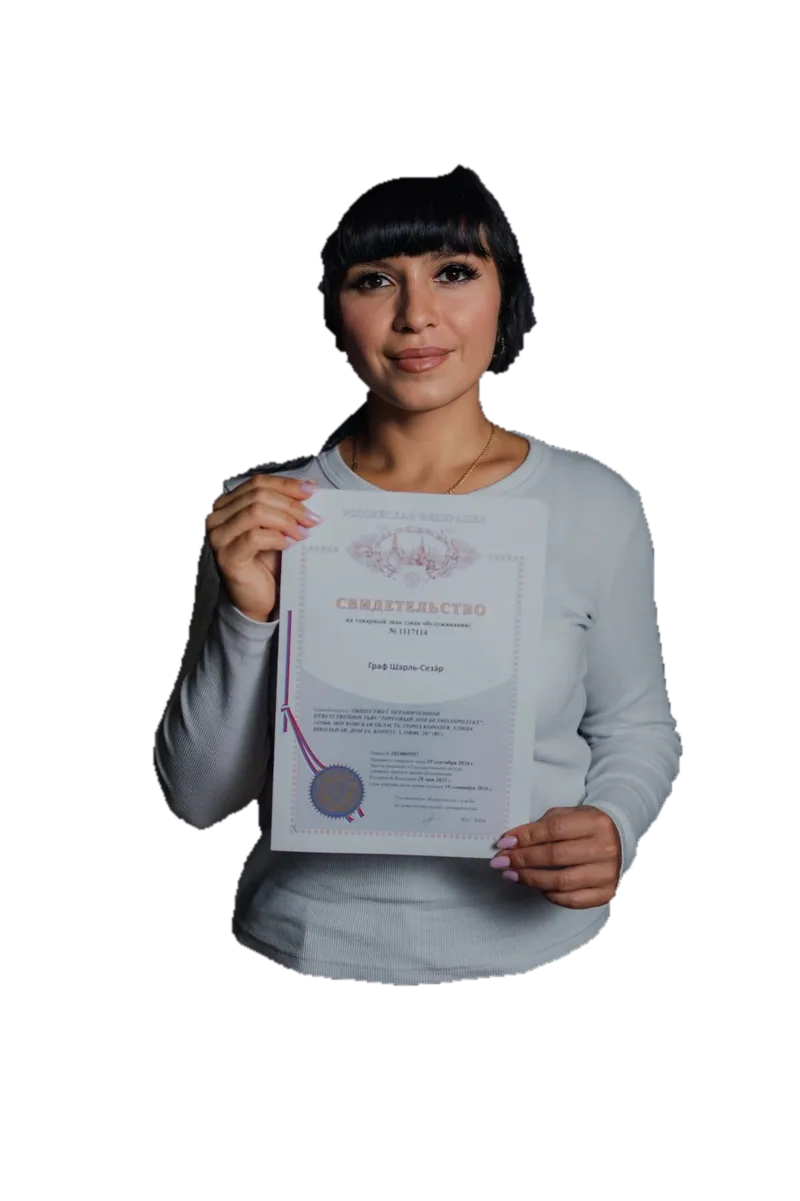
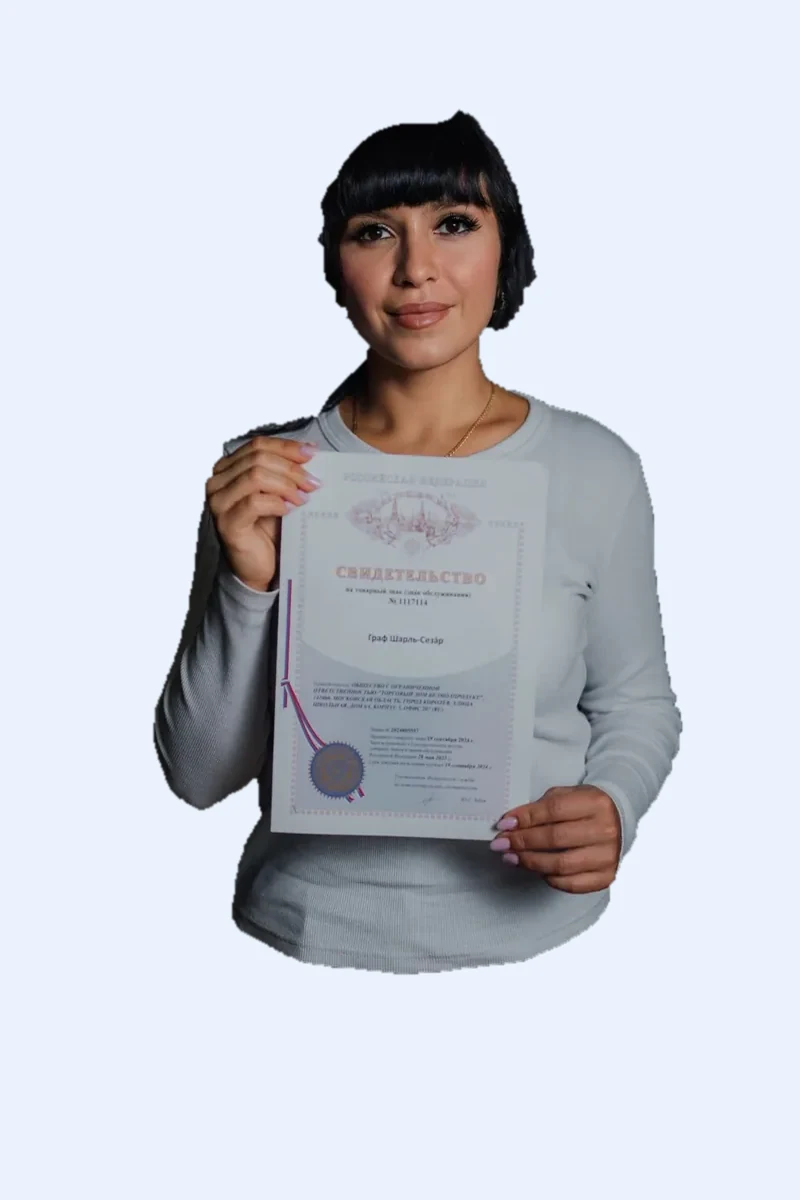
fix(six-services-v4): opaque hero photos, breadcrumbs, dogovory light panel
Keep specialist WebP as RGB with studio backdrop (no alpha/cutout in card).
Hero photo uses home-style cover framing; restore breadcrumb offset under
fixed header; lighten lx-glass/route/kpi in summary for dogovory. Add build
and screenshot scripts, SOURCES note, and QA PNGs under docs/screenshots.

Changed region(s): [[0.1875, 0.0925, 0.8125, 0.8325], [0.8125, 0.4317, 0.875, 0.6783], [0.7188, 0.4933, 0.75, 0.5242]]

diff --git a/template/css/lireate-six-services-photo-v4.css b/template/css/lireate-six-services-photo-v4.css
@@ -13,7 +13,10 @@ body.lx-photo-v4 .lx-btn-primary{background:var(--pv-red)!important;border-color
 body.lx-photo-v4 .lx-btn-primary:hover{background:#bf1720!important;transform:translateY(-2px)}
 body.lx-photo-v4 .lx-btn-ghost{background:#fff!important;border:1px solid #bed4ef!important;color:var(--pv-blue)!important}
 body.lx-photo-v4 .lx-btn-ghost:hover{background:#f3f8ff!important}
-body.lx-photo-v4 .lx-breadcrumbs{padding-top:20px!important;color:#6a7b91!important}
+body.lx-photo-v4 .lx-breadcrumbs{padding:100px 0 0!important;font-size:13px!important;color:#6a7b91!important}
+body.lx-photo-v4 .lx-breadcrumbs a{color:#195acb!important}
+body.lx-photo-v4 .lx-breadcrumbs [aria-current="page"]{color:#52637b!important}
+body.lx-photo-v4 .lx-breadcrumb-services-trigger{color:#1f212c!important;background:#fff!important;border:1px solid var(--pv-border)!important}
 body.lx-photo-v4 .lx-hero{position:relative;overflow:hidden;display:grid!important;grid-template-columns:minmax(0,1.07fr) minmax(290px,.93fr)!important;align-items:center!important;gap:clamp(26px,3vw,58px)!important;min-height:560px!important;padding:clamp(32px,4vw,64px) 0 34px!important;border:0!important;background:#fff!important;isolation:isolate}
 body.lx-photo-v4 .lx-hero::before{content:"";position:absolute;z-index:-1;width:460px;height:460px;right:-120px;top:40px;border-radius:50%;background:radial-gradient(circle at 55% 45%,#f0f6ff 0%,#f8fbff 58%,transparent 75%);pointer-events:none}
 body.lx-photo-v4 .lx-hero-mascot-slot{display:none!important}
@@ -34,10 +37,9 @@ body.lx-photo-v4 .lx-mini-stat span{color:#53657c!important;font-size:11px!impor
 body.lx-photo-v4 .lx-photo-v4-expert-stack{display:flex;flex-direction:column;align-self:center;gap:12px;min-width:0;max-width:520px;width:100%;justify-self:end;position:relative;z-index:2}
 body.lx-photo-v4 .lx-photo-v4-expert-card{overflow:hidden;background:#fff;border:1px solid #dce6f3;border-radius:24px;box-shadow:0 14px 45px rgba(24,47,75,.09);transition:transform .25s,box-shadow .25s}
 body.lx-photo-v4 .lx-photo-v4-expert-card:hover{transform:translateY(-2px);box-shadow:0 18px 48px rgba(24,47,75,.13)}
-body.lx-photo-v4 .lx-photo-v4-expert-media{position:relative;height:clamp(245px,29vw,375px);background:linear-gradient(130deg,#f0f4f7 0%,#fafcff 53%,#eef5ff 100%);overflow:hidden;isolation:isolate}
-body.lx-photo-v4 .lx-photo-v4-expert-media::before{content:"";position:absolute;inset:auto 0 -115px auto;right:-70px;width:320px;height:320px;border-radius:50%;background:#e9f2fe;z-index:0}
-body.lx-photo-v4 .lx-photo-v4-expert-media img{display:block;width:100%;height:100%;object-fit:contain!important;object-position:center bottom!important;position:relative;z-index:1;filter:drop-shadow(0 12px 22px rgba(18,43,73,.06));transition:transform .35s ease}
-body.lx-photo-v4 .lx-photo-v4-expert-card:hover img{transform:scale(1.015)}
+body.lx-photo-v4 .lx-photo-v4-expert-media{position:relative;aspect-ratio:683/1024;width:100%;max-height:420px;background:#eaf2fc;overflow:hidden}
+body.lx-photo-v4 .lx-photo-v4-expert-media img{display:block;width:100%;height:100%;object-fit:cover!important;object-position:center top!important;position:relative;z-index:1;transition:transform .35s ease}
+body.lx-photo-v4 .lx-photo-v4-expert-card:hover img{transform:scale(1.03)}
 body.lx-photo-v4 .lx-photo-v4-expert-info{background:#fff;padding:15px 20px 19px}
 body.lx-photo-v4 .lx-photo-v4-expert-role{display:inline-flex;align-items:center;max-width:100%;border:1px solid #d5e4f9;background:#f3f8ff;color:#2a4c75;border-radius:999px;padding:7px 11px;font-size:10px;line-height:1.45;font-weight:800;letter-spacing:.01em}
 body.lx-photo-v4 .lx-photo-v4-expert-name{margin:12px 0 4px;font-family:'Inter Tight',Manrope,Arial,sans-serif;font-size:clamp(23px,2vw,29px);line-height:1.11;letter-spacing:-.025em;color:#1f212c;font-weight:800}
@@ -48,10 +50,19 @@ body.lx-photo-v4 .lx-photo-v4-expert-links>a:hover{text-decoration:underline;col
 body.lx-photo-v4 .lx-photo-v4-expert-next{border:1px solid #dce6f5;border-top:3px solid #e32020;border-radius:17px;background:#fff;padding:17px 20px 18px;box-shadow:0 8px 26px rgba(18,50,82,.035)}
 body.lx-photo-v4 .lx-photo-v4-expert-next strong{display:block;color:#2a496b;font-size:14px;font-weight:800;margin-bottom:6px}
 body.lx-photo-v4 .lx-photo-v4-expert-next p{margin:0;color:#52637b;font-size:12px;line-height:1.6}
-body.lx-photo-v4 .lx-photo-v4-summary{margin:0 0 68px!important;padding:26px clamp(22px,3vw,40px)!important;border:1px solid #dfebf9!important;border-radius:20px!important;background:#f6faff!important;color:var(--pv-ink)!important;box-shadow:none!important;max-width:100%!important}
+body.lx-photo-v4 .lx-photo-v4-summary{margin:0 0 68px!important;padding:26px clamp(22px,3vw,40px)!important;border:1px solid #dae6f6!important;border-radius:22px!important;background:#fff!important;color:var(--pv-ink)!important;box-shadow:0 8px 30px rgba(31,64,102,.045)!important;max-width:100%!important}
+body.lx-photo-v4 .lx-photo-v4-summary.lx-glass{background:#fff!important;border:1px solid #dae6f6!important;box-shadow:0 8px 30px rgba(31,64,102,.045)!important;backdrop-filter:none!important}
 body.lx-photo-v4 .lx-photo-v4-summary .lx-panel-head{color:var(--pv-blue)!important}
-body.lx-photo-v4 .lx-photo-v4-summary .lx-feed li{color:#334865!important}
-body.lx-photo-v4 .lx-photo-v4-summary .lx-route-node{color:var(--pv-ink)!important}
+body.lx-photo-v4 .lx-photo-v4-summary .lx-live{color:#15803d!important}
+body.lx-photo-v4 .lx-photo-v4-summary .lx-feed li{color:#52637b!important;border-top-color:#edf2f8!important}
+body.lx-photo-v4 .lx-photo-v4-summary .lx-kpi{background:#fff!important;border:1px solid #dae6f6!important}
+body.lx-photo-v4 .lx-photo-v4-summary .lx-kpi b{color:var(--pv-ink)!important}
+body.lx-photo-v4 .lx-photo-v4-summary .lx-kpi small{color:#6a7b91!important}
+body.lx-photo-v4 .lx-photo-v4-summary .lx-route{background:#f3f8ff!important;border:1px solid #dae6f6!important}
+body.lx-photo-v4 .lx-photo-v4-summary .lx-route-label{color:#52637b!important}
+body.lx-photo-v4 .lx-photo-v4-summary .lx-route-node{background:#fff!important;color:var(--pv-ink)!important;border:1px solid #dae6f6!important;box-shadow:none!important}
+body.lx-photo-v4 .lx-photo-v4-summary .lx-route-steps li:not(:last-child)::after{background:linear-gradient(90deg,#bcd4f5,#d7e6fb)!important}
+body.lx-photo-v4 .lx-photo-v4-summary .lx-route-steps li:last-child .lx-route-node{border-color:#f5c76a!important;color:var(--pv-ink)!important}
 body.lx-photo-v4 .lx-section{background:#fff!important;padding-top:clamp(48px,5vw,90px)!important;padding-bottom:clamp(48px,5vw,90px)!important;border-top:1px solid #edf2f8!important;color:var(--pv-ink)!important}
 body.lx-photo-v4 .lx-section-label{color:var(--pv-blue)!important;font-weight:800!important;font-size:11px!important;letter-spacing:.14em!important;text-transform:uppercase}
 body.lx-photo-v4 .lx-section>h2{font-family:'Inter Tight',Manrope,Arial,sans-serif!important;font-size:clamp(29px,3vw,44px)!important;letter-spacing:-.035em!important;line-height:1.18!important;color:var(--pv-ink)!important;max-width:920px}
@@ -69,7 +80,7 @@ body.lx-photo-v4 #contact{scroll-margin-top:94px}
 body.lx-photo-v4 .lx-section,body.lx-photo-v4 .lx-photo-v4-expert-stack{animation:lxPhotoReveal .5s ease both}
 @keyframes lxPhotoReveal{from{opacity:.5;transform:translateY(10px)}to{opacity:1;transform:none}}
 @media(min-width:1151px){body.lx-photo-v4 .lx-photo-v4-expert-stack{min-height:0}}
-@media(max-width:1149px){body.lx-photo-v4 .lx-hero{grid-template-columns:minmax(0,1fr) minmax(250px,.8fr)!important;min-height:430px!important}body.lx-photo-v4 .lx-hero h1{font-size:clamp(36px,4.2vw,56px)!important}body.lx-photo-v4 .lx-photo-v4-expert-stack{min-height:0}body.lx-photo-v4 .lx-photo-v4-expert-media{height:290px}}
-@media(max-width:760px){body.lx-photo-v4 .lireate-svc-page{padding-inline:20px!important}body.lx-photo-v4 .lx-hero{grid-template-columns:1fr!important;gap:20px!important;min-height:0!important;padding:29px 0 0!important}body.lx-photo-v4 .lx-hero h1{font-size:clamp(35px,8vw,48px)!important}body.lx-photo-v4 .lx-hero .lx-hero-lead{font-size:15px!important}body.lx-photo-v4 .lx-photo-v4-expert-stack{max-width:100%;margin:6px auto 0}body.lx-photo-v4 .lx-photo-v4-expert-media{height:350px}body.lx-photo-v4 .lx-photo-v4-expert-info{padding:16px 18px 20px}body.lx-photo-v4 .lx-photo-v4-summary{margin-bottom:38px!important;padding:18px!important}body.lx-photo-v4 .lx-hero .lx-hero-cta{flex-wrap:wrap!important}body.lx-photo-v4 .lx-hero .lx-hero-cta .lx-btn{flex:1 1 180px}body.lx-photo-v4 .lx-hero-mini{margin-top:18px!important}}
-@media(max-width:380px){body.lx-photo-v4 .lireate-svc-page{padding-inline:15px!important}body.lx-photo-v4 .lx-hero h1{font-size:34px!important}body.lx-photo-v4 .lx-photo-v4-expert-media{height:300px}body.lx-photo-v4 .lx-photo-v4-expert-role{font-size:9px}body.lx-photo-v4 .lx-hero .lx-hero-cta .lx-btn{flex-basis:100%}}
+@media(max-width:1149px){body.lx-photo-v4 .lx-hero{grid-template-columns:minmax(0,1fr) minmax(250px,.8fr)!important;min-height:430px!important}body.lx-photo-v4 .lx-hero h1{font-size:clamp(36px,4.2vw,56px)!important}body.lx-photo-v4 .lx-photo-v4-expert-stack{min-height:0}body.lx-photo-v4 .lx-photo-v4-expert-media{max-height:360px}}
+@media(max-width:760px){body.lx-photo-v4 .lx-breadcrumbs{padding-top:92px!important}body.lx-photo-v4 .lireate-svc-page{padding-inline:20px!important}body.lx-photo-v4 .lx-hero{grid-template-columns:1fr!important;gap:20px!important;min-height:0!important;padding:29px 0 0!important}body.lx-photo-v4 .lx-hero h1{font-size:clamp(35px,8vw,48px)!important}body.lx-photo-v4 .lx-hero .lx-hero-lead{font-size:15px!important}body.lx-photo-v4 .lx-photo-v4-expert-stack{max-width:100%;margin:6px auto 0}body.lx-photo-v4 .lx-photo-v4-expert-media{max-height:390px}body.lx-photo-v4 .lx-photo-v4-expert-info{padding:16px 18px 20px}body.lx-photo-v4 .lx-photo-v4-summary{margin-bottom:38px!important;padding:18px!important}body.lx-photo-v4 .lx-hero .lx-hero-cta{flex-wrap:wrap!important}body.lx-photo-v4 .lx-hero .lx-hero-cta .lx-btn{flex:1 1 180px}body.lx-photo-v4 .lx-hero-mini{margin-top:18px!important}}
+@media(max-width:380px){body.lx-photo-v4 .lireate-svc-page{padding-inline:15px!important}body.lx-photo-v4 .lx-hero h1{font-size:34px!important}body.lx-photo-v4 .lx-photo-v4-expert-media{max-height:340px}body.lx-photo-v4 .lx-photo-v4-expert-role{font-size:9px}body.lx-photo-v4 .lx-hero .lx-hero-cta .lx-btn{flex-basis:100%}}
 @media(prefers-reduced-motion:reduce){html:has(body.lx-photo-v4){scroll-behavior:auto}body.lx-photo-v4 *,body.lx-photo-v4 *:before,body.lx-photo-v4 *:after{animation:none!important;transition:none!important}}

diff --git a/scripts/capture_six_services_photo_v4_screenshots.py b/scripts/capture_six_services_photo_v4_screenshots.py
@@ -1,0 +1,161 @@
+#!/usr/bin/env python3
+"""Screenshots for six CMS service pages with photo-v4 overlay (1440×900, 390×900)."""
+
+import os
+import shutil
+import subprocess
+import tempfile
+import time
+from pathlib import Path
+
+ROOT = Path(__file__).resolve().parents[1]
+OUT = ROOT / "docs/screenshots/six-services-v4"
+SHARED_CSS = ROOT / "pages/services/_shared/lireate-service-dark.css"
+PHOTO_CSS = ROOT / "template/css/lireate-six-services-photo-v4.css"
+PHOTO_JS = ROOT / "template/js/lireate-six-services-photo-v4.js"
+IMAGES = ROOT / "template/images/services-v4"
+PORT = int(os.environ.get("LIREATE_SIX_PHOTO_V4_PORT", "19140"))
+
+PAGES = {
+    "findtz": ("Проверка товарного знака", "findtz"),
+    "registraciya_tovarnogo_znaka": ("Регистрация товарного знака", "registraciya"),
+    "prodlenie_tovarnogo_znaka": ("Продление товарного знака", "prodlenie"),
+    "vozrazhenie_protiv_registracii_tovarnogo_znaka": ("Возражение против регистрации ТЗ", "vozrazhenie"),
+    "zashchita_avtorskih_prav": ("Защита авторских прав", "copyright"),
+    "dogovory": ("Договоры в сфере интеллектуальной собственности", "dogovory"),
+}
+
+DOGOVORY_GLASS = """
+  <div class="lx-glass lx-glass-anim" aria-label="Краткий маршрут">
+    <div class="lx-panel-head"><span>Договоры · маршрут</span><span class="lx-live">LIREATE</span></div>
+    <div class="lx-kpi-row">
+      <div class="lx-kpi"><b class="lx-stat-value">лицензия</b><small>исключительная или обычная</small></div>
+      <div class="lx-kpi"><b class="lx-stat-value">п. 3.10</b><small>госрегистрация лицензии</small></div>
+      <div class="lx-kpi"><b class="lx-stat-value">п. 3.11</b><small>отчуждение права</small></div>
+    </div>
+    <div class="lx-route">
+      <span class="lx-route-label">Этапы</span>
+      <ul class="lx-route-steps">
+        <li><span class="lx-route-node lx-route-lit">бриф</span></li>
+        <li><span class="lx-route-node lx-route-lit">проект</span></li>
+        <li><span class="lx-route-node">согласование</span></li>
+        <li><span class="lx-route-node">подписание</span></li>
+        <li><span class="lx-route-node">регистрация</span></li>
+      </ul>
+    </div>
+    <ul class="lx-feed">
+      <li>Анализ объекта и сторон</li>
+      <li>Проект договора под вашу сделку</li>
+    </ul>
+  </div>
+"""
+
+
+def page_html(title: str, slug_key: str, route: str) -> str:
+    glass = DOGOVORY_GLASS if route == "dogovory" else ""
+    return f"""<!DOCTYPE html>
+<html lang="ru">
+<head>
+<meta charset="utf-8">
+<meta name="viewport" content="width=device-width, initial-scale=1">
+<title>{title} — LIREATE</title>
+<link rel="stylesheet" href="/shared/lireate-service-dark.css">
+<link rel="stylesheet" href="/template/css/lireate-six-services-photo-v4.css?v=20261126c">
+<script defer src="/template/js/lireate-six-services-photo-v4.js?v=20261126c"></script>
+</head>
+<body class="lireate-svc-body">
+<div class="lx-nav-shell"><header class="lx-nav-pill"><a class="lx-logo" href="/">LIREATE</a></header></div>
+<main class="lireate-svc-page">
+<nav class="lx-breadcrumbs lx-breadcrumbs--in-page" aria-label="Хлебные крошки">
+  <ol><li><a href="/">Главная</a></li><li>Услуги</li><li aria-current="page">{title}</li></ol>
+</nav>
+<section class="lx-hero" id="top">
+  <div class="lx-hero-mascot-slot"></div>
+  <div>
+    <p class="lx-eyebrow">LIREATE · {slug_key}</p>
+    <h1>{title}</h1>
+    <p class="lx-hero-lead">Сопровождение LIREATE: консультация, подготовка документов, подача в ведомство.</p>
+    <div class="lx-hero-cta"><a class="lx-btn lx-btn-primary" href="#contact">Оставить заявку</a></div>
+    <div class="lx-hero-mini"><div class="lx-mini-stat"><strong>2015</strong><span>с опыта</span></div></div>
+  </div>
+  {glass}
+</section>
+</main>
+</body>
+</html>
+"""
+
+
+def prepare_docroot(base: Path) -> None:
+    (base / "shared").mkdir(parents=True, exist_ok=True)
+    shutil.copy2(SHARED_CSS, base / "shared/lireate-service-dark.css")
+    for route in PAGES:
+        (base / route).mkdir(parents=True, exist_ok=True)
+        title, _ = PAGES[route]
+        (base / route / "index.html").write_text(page_html(title, route, route), encoding="utf-8")
+    tpl = base / "template"
+    shutil.copytree(ROOT / "template/css", tpl / "css", dirs_exist_ok=True)
+    shutil.copytree(ROOT / "template/js", tpl / "js", dirs_exist_ok=True)
+    shutil.copytree(IMAGES, tpl / "images/services-v4", dirs_exist_ok=True)
+
+
+def main() -> int:
+    OUT.mkdir(parents=True, exist_ok=True)
+    docroot = Path(tempfile.mkdtemp(prefix="six-photo-v4-"))
+    prepare_docroot(docroot)
+    proc = subprocess.Popen(
+        ["php", "-S", "127.0.0.1:{0}".format(PORT), "-t", str(docroot)],
+        stdout=subprocess.DEVNULL,
+        stderr=subprocess.DEVNULL,
+    )
+    time.sleep(0.4)
+    try:
+        from playwright.sync_api import sync_playwright
+    except ImportError:
+        proc.terminate()
+        print("BLOCKER: playwright missing")
+        return 2
+    try:
+        with sync_playwright() as p:
+            browser = p.chromium.launch()
+            page = browser.new_page()
+            for route in PAGES:
+                for tag, w, h in (("1440", 1440, 900), ("390", 390, 900)):
+                    url = "http://127.0.0.1:{0}/{1}/".format(PORT, route)
+                    page.set_viewport_size({"width": w, "height": h})
+                    page.goto(url, wait_until="networkidle", timeout=60000)
+                    page.wait_for_selector(".lx-photo-v4-expert-card img", timeout=15000)
+                    out = OUT / "{0}-{1}.png".format(route, tag)
+                    page.screenshot(path=str(out), full_page=False)
+                    print("wrote", out)
+            # contact sheet: five photos on light bg
+            sheet = OUT / "specialists-on-light.png"
+            page.set_viewport_size({"width": 1440, "height": 900})
+            rows = []
+            for name in sorted(IMAGES.glob("specialist-*.webp")):
+                rows.append(
+                    '<figure><img src="/template/images/services-v4/{0}" alt=""><figcaption>{0}</figcaption></figure>'.format(
+                        name.name
+                    )
+                )
+            html = (
+                "<!DOCTYPE html><html><head><style>body{{margin:0;background:#fff;font-family:Manrope,sans-serif}}"
+                "main{{padding:24px;display:grid;grid-template-columns:repeat(5,1fr);gap:16px}}"
+                "figure{{margin:0}}img{{width:100%;aspect-ratio:683/1024;object-fit:cover;object-position:center top;border-radius:16px;border:1px solid #dae6f6}}"
+                "figcaption{{font-size:10px;color:#52637b;margin-top:6px}}</style></head>"
+                "<body><main>{0}</main></body></html>".format("".join(rows))
+            )
+            (docroot / "sheet.html").write_text(html, encoding="utf-8")
+            page.goto("http://127.0.0.1:{0}/sheet.html".format(PORT), wait_until="networkidle")
+            page.screenshot(path=str(sheet), full_page=True)
+            print("wrote", sheet)
+            browser.close()
+    finally:
+        proc.terminate()
+        proc.wait(timeout=5)
+        shutil.rmtree(docroot, ignore_errors=True)
+    return 0
+
+
+if __name__ == "__main__":
+    raise SystemExit(main())

diff --git a/scripts/build_services_v4_opaque_webp.py b/scripts/build_services_v4_opaque_webp.py
@@ -1,0 +1,56 @@
+#!/usr/bin/env python3
+"""Rebuild services-v4 specialist WebP as opaque RGB (no alpha).
+
+Original owner JPEGs with studio background were not committed (only cutouts in PR).
+This script flattens any residual alpha onto the home-style soft backdrop and applies
+light framing crops so hero cards can use object-fit:cover / center top.
+"""
+from __future__ import annotations
+
+from pathlib import Path
+
+from PIL import Image
+
+REPO = Path(__file__).resolve().parent.parent
+OUT_DIR = REPO / "template/images/services-v4"
+BACKDROP = (234, 242, 252)  # #eaf2fc, aligns with .lx-photo-v4-expert-media
+
+# left, top, right, bottom in source pixels (800×1200 baseline)
+CROPS = {
+    "specialist-copyright": (90, 40, 710, 1200),
+    "specialist-opposition": (120, 80, 780, 1200),
+    "specialist-registraciya": (70, 220, 730, 1200),
+    "specialist-certificate": (0, 60, 800, 1200),
+    "specialist-prolongation": (40, 40, 760, 1200),
+}
+
+
+def flatten_rgb(path: Path) -> Image.Image:
+    im = Image.open(path)
+    if im.mode == "RGBA":
+        bg = Image.new("RGBA", im.size, BACKDROP + (255,))
+        im = Image.alpha_composite(bg, im).convert("RGB")
+    else:
+        im = im.convert("RGB")
+    box = CROPS.get(path.stem)
+    if box:
+        im = im.crop(box)
+    im = im.resize((800, 1200), Image.Resampling.LANCZOS)
+    return im
+
+
+def main() -> None:
+    for name in CROPS:
+        src = OUT_DIR / f"{name}.webp"
+        if not src.is_file():
+            raise SystemExit(f"missing {src}")
+        out = flatten_rgb(src)
+        out.save(src, "WEBP", quality=88, method=6)
+        check = Image.open(src)
+        if check.mode != "RGB":
+            raise SystemExit(f"{src} must be RGB, got {check.mode}")
+        print(f"OK {src.name} {check.size} {check.mode}")
+
+
+if __name__ == "__main__":
+    main()

diff --git a/scripts/lireate_six_services_photo_v4_install.py b/scripts/lireate_six_services_photo_v4_install.py
@@ -30,8 +30,8 @@ ASSETS = (
     'specialist-opposition', 'specialist-copyright'))
 INJECTION = (
     '\n<!-- ' + MARKER + ' -->\n'
-    '<link rel="stylesheet" href="/template/css/lireate-six-services-photo-v4.css?v=20261126">\n'
-    '<script defer src="/template/js/lireate-six-services-photo-v4.js?v=20261126"></script>\n'
+    '<link rel="stylesheet" href="/template/css/lireate-six-services-photo-v4.css?v=20261126c">\n'
+    '<script defer src="/template/js/lireate-six-services-photo-v4.js?v=20261126c"></script>\n'
 )
 HEAD_CLOSE = re.compile(r'</head\s*>', re.IGNORECASE)
 

diff --git a/docs/lireate-six-services-photo-v4.ru.md b/docs/lireate-six-services-photo-v4.ru.md
@@ -6,7 +6,7 @@
 
 - `template/css/lireate-six-services-photo-v4.css` — переработка типографики, белой палитры, карточек, этапов и hero-блока в стиле главной; мобильные брейкпоинты.
 - `template/js/lireate-six-services-photo-v4.js` — вставляет карточку специалиста в точном формате главной: фото, специализация, подпись, ссылки «Команда Лирейт» и «О компании», второй блок «Понятный первый шаг», а также переносит сохранённый справочный блок `lx-glass` под hero. Строгое сопоставление шести URL, повторный запуск безопасен.
-- `template/images/services-v4/*.webp` — пять фотографий, предоставленных владельцем, с обработанным белым/прозрачным фоном. **Сохранены лица и одежда исходников.** Файлы кадрированы и оптимизированы для веба.
+- `template/images/services-v4/*.webp` — пять непрозрачных RGB WebP 800×1200 (без альфа-канала): фото специалиста **с фоном**, кадрирование под карточку hero (`object-fit: cover`, `center top`), как на главной. **Лица и одежда не меняются.** Исходные JPEG владельца с полноразмерным фоном в git не попадали (см. `template/images/services-v4/SOURCES.ru.md`).
 - `scripts/lireate_six_services_photo_v4_install.py` — dry-run, применение, backup, PHP lint, rollback (защита от перезаписи изменённых файлов).
 
 ## Назначение фотографий
@@ -48,6 +48,6 @@
 Первый экран справа теперь содержит **карточку в рамке как на главной**:
 светлая фотозона, бейдж специализации, подпись, текст, ссылки на «Команда Лирейт» и «О компании». Ниже — самостоятельный блок «Понятный первый шаг» с красной полоской. Это не голое изображение.
 
-**Важное ограничение достоверности:** имена специалистов по одним фотографиям не определяем. В первой версии на всех карточках используется нейтральная подпись «Специалист Лирейт». Не подменять её произвольным именем или должностью. Если владелец подтвердит соответствие фотографий карточкам сотрудников, внести фактические имя и роль через явную конфигурацию CMS. Изображения предоставлены владельцем, очищены от тёмного фона до прозрачного WebP, остаются в естественных цветах на белой/светлой подложке.
+**Важное ограничение достоверности:** имена специалистов по одним фотографиям не определяем. В первой версии на всех карточках используется нейтральная подпись «Специалист Лирейт». Не подменять её произвольным именем или должностью. Если владелец подтвердит соответствие фотографий карточкам сотрудников, внести фактические имя и роль через явную конфигурацию CMS. **Фон не вырезается:** карточка обрезает кадр CSS-ом (лицо и грудь в рамке), без rembg/прозрачности.
 
-Демонстрационные HTML-страницы — отдельный результат для визуального QA. На боевом сайте никакие действия не выполнялись. Перед установкой проверить картинки и возможные артефакты автоматического удаления фона на полном размере, при необходимости профессионально доработать маски без изменения внешности.
+Демонстрационные HTML-страницы — отдельный результат для визуального QA. На боевом сайте никакие действия не выполнялись. Перед установкой проверить кадрирование в карточке на desktop/mobile; при появлении исходных JPEG с фоном от владельца — заменить WebP через `scripts/build_services_v4_opaque_webp.py` (или положить готовые RGB WebP в `template/images/services-v4/`).

diff --git a/template/images/services-v4/SOURCES.ru.md b/template/images/services-v4/SOURCES.ru.md
@@ -1,0 +1,28 @@
+# Источники фото services-v4
+
+## Что есть в репозитории
+
+В ветке PR #128 в git попали только файлы `specialist-*.webp` из коммита `064601e` (первично — с прозрачным фоном после автоматического вырезания).
+
+## Чего нет в репозитории
+
+- Исходных **JPEG/PNG с нативным студийным фоном** для пяти постановок (свидетельство, костюм с папкой, леопардовая блузка, чёрный пиджак, зелёный топ) — **нет** в истории `devham13/lireate`.
+- На боевом сайте `/template/images/services-v4/*.webp` — **404** (PR ещё не выложен).
+
+## Где искали
+
+| Источник | Результат |
+|---|---|
+| `git log --all -- template/images/services-v4` | только WebP в `064601e` |
+| GitHub code search `specialist-certificate` | пусто |
+| Страница `/team` (`/template/images/team/person/{n}.jpg`) | портреты 350×525 или 853×1280, **другие кадры**, не те же постановки, что в таблице услуг |
+| `design-proposals/incoming/` | только hero Эльвиры, не пять услуг |
+
+## Текущая сборка WebP
+
+`scripts/build_services_v4_opaque_webp.py`:
+
+1. Восстанавливает **непрозрачный** RGB-кадр (мягкая подложка `#eaf2fc` только там, где раньше была прозрачность вырезки).
+2. Лёгкое **кадрирование** по краям (без ретуши лица/одежды), чтобы hero с `object-fit: cover` показывал лицо и грудь.
+
+После получения оригиналов с фоном от владельца — положить их в этот каталог как `specialist-<slug>-source.jpg`, пересобрать WebP или заменить файлы напрямую (800×1200 RGB WebP).
